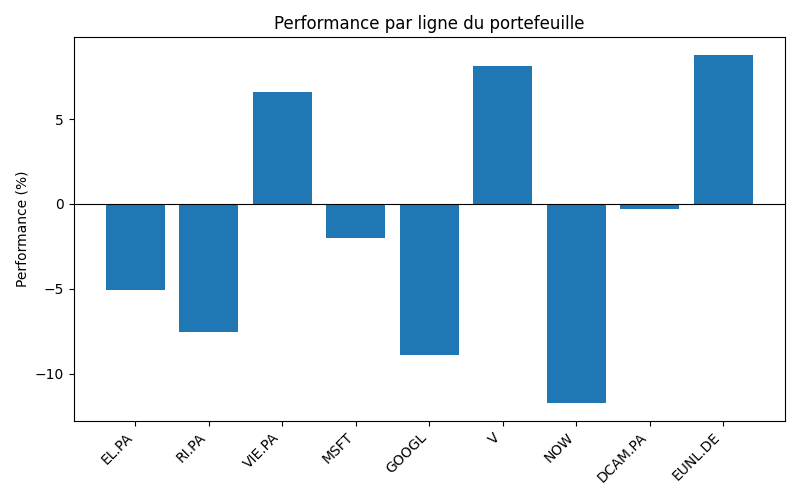
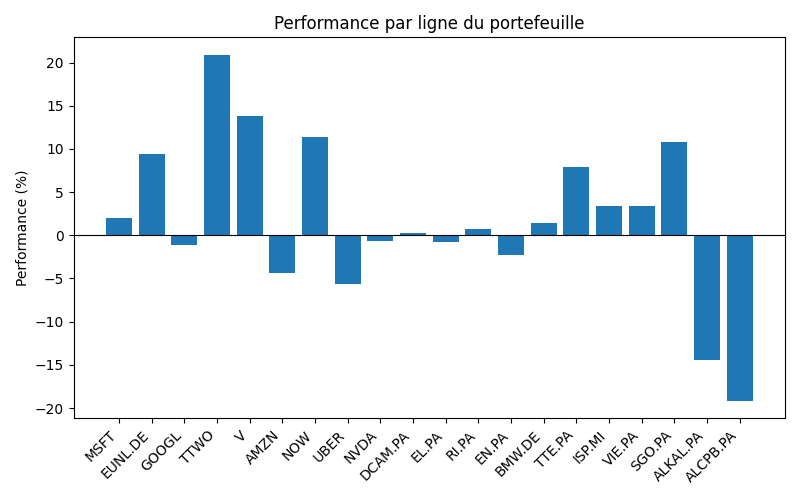
Ajout des lignes CTO/PEA restantes (20 positions au total)

diff --git a/verifier_tickers.py b/verifier_tickers.py
@@ -1,0 +1,19 @@
+import yfinance as yf
+
+tickers_a_tester = [
+    "MSFT", "EUNL.DE", "GOOGL", "TTWO", "V", "AMZN", "NOW", "UBER", "NVDA",
+    "DCAM.PA", "EL.PA", "RI.PA", "EN.PA", "BMW.DE", "TTE.PA",
+    "ISP.MI", "VIE.PA", "SGO.PA", "ALKAL.PA", "ALCPB.PA"
+]
+
+for ticker in tickers_a_tester:
+    try:
+        action = yf.Ticker(ticker)
+        historique = action.history(period="5d")
+        if not historique.empty:
+            dernier_cours = historique["Close"].iloc[-1]
+            print(f"✅ {ticker} -> OK, dernier cours : {round(dernier_cours, 2)}")
+        else:
+            print(f"⚠ {ticker} -> Aucune donnée renvoyée")
+    except Exception as erreur:
+        print(f"❌ {ticker} -> Erreur : {erreur}")
